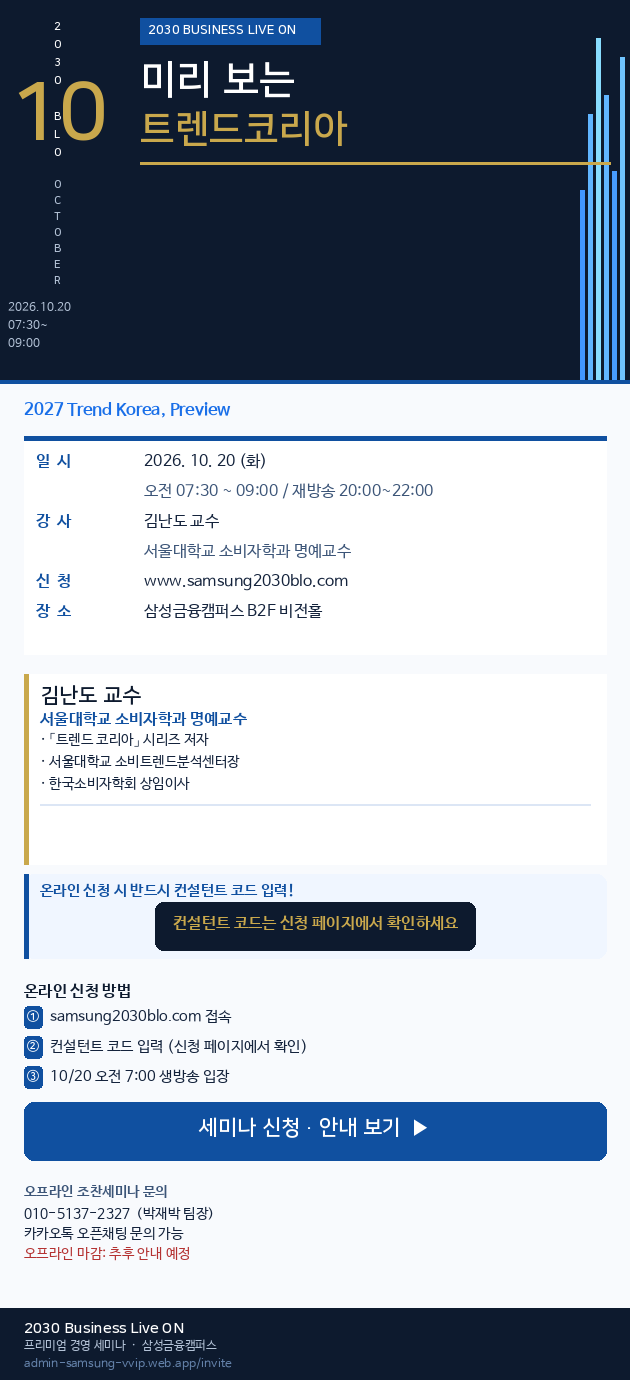
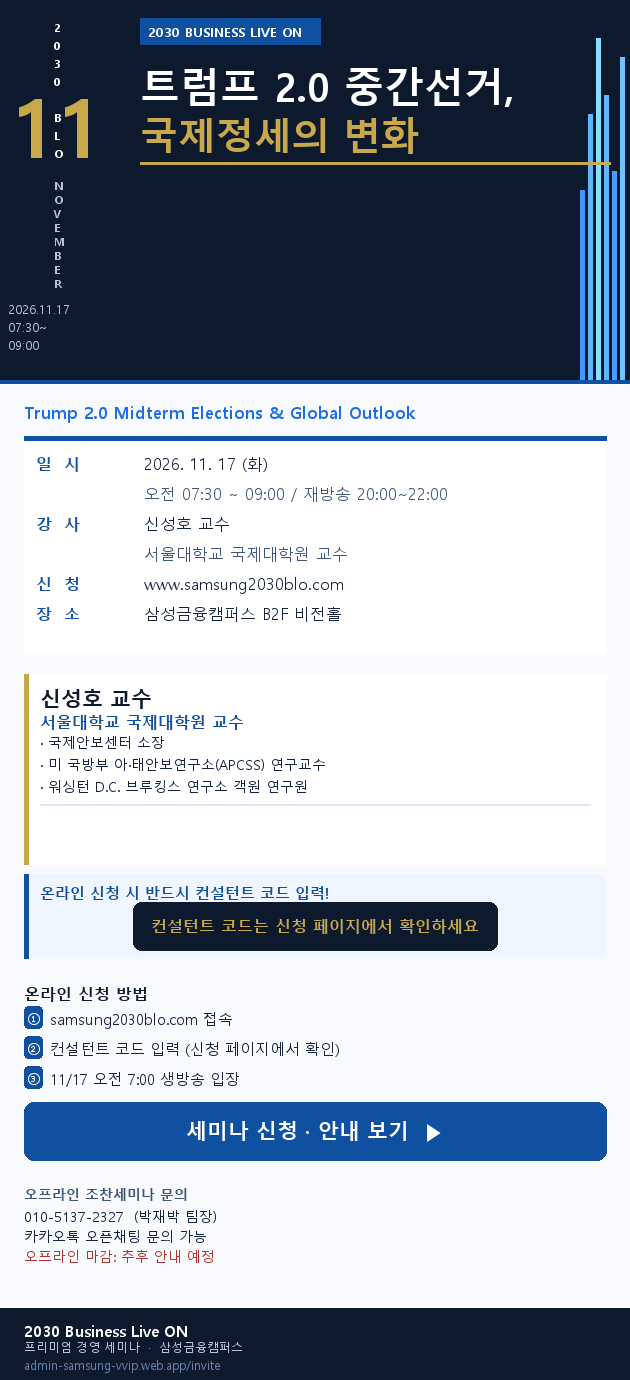
feat: 11월 세미나(트럼프 2.0 중간선거, 신성호 교수) 반영

diff --git a/invite.html b/invite.html
@@ -5,15 +5,15 @@
 <meta name="viewport" content="width=device-width, initial-scale=1.0, maximum-scale=1.0, user-scalable=no">
 <meta property="og:type" content="website">
 <meta property="og:title" content="세미나 신청하기 | BLO 조찬세미나">
-<meta property="og:description" content="미리 보는 트렌드코리아 2027 | 10/20(화) 오전 7:30 | 김난도 교수 | 신청: www.samsung2030blo.com">
-<meta property="og:url" content="https://admin-samsung-vvip.web.app/invite?m=2026-10">
-<meta property="og:image" content="https://admin-samsung-vvip.web.app/assets/og-kakao-wide.png?v=20">
+<meta property="og:description" content="트럼프 2.0 중간선거, 미국의 선택과 국제정세의 변화 | 11/17(화) 오전 7:30 | 신성호 교수 | 신청: www.samsung2030blo.com">
+<meta property="og:url" content="https://admin-samsung-vvip.web.app/invite?m=2026-11">
+<meta property="og:image" content="https://admin-samsung-vvip.web.app/assets/og-kakao-wide.png?v=21">
 <meta property="og:image:width" content="1024">
 <meta property="og:image:height" content="576">
 <meta name="twitter:card" content="summary_large_image">
 <link rel="preconnect" href="https://cdn.jsdelivr.net">
 <link rel="stylesheet" href="https://cdn.jsdelivr.net/gh/orioncactus/pretendard@v1.3.9/dist/web/static/pretendard.min.css">
-<title>미리 보는 트렌드코리아 2027</title>
+<title>트럼프 2.0 중간선거, 미국의 선택과 국제정세의 변화</title>
 <style>
 * { margin:0; padding:0; box-sizing:border-box; -webkit-tap-highlight-color:transparent; }
 html, body {
@@ -521,7 +521,7 @@ html, body {
 
 </style>
 </head>
-<body data-event-date="2026-10-20">
+<body data-event-date="2026-11-17">
 <div class="wrap">
 
 <div class="stale-banner" id="staleBanner">
@@ -535,14 +535,14 @@ html, body {
       <div class="blo-mark-sub">2030 BUSINESS</div>
       <div class="blo-mark-main">LIVE ON</div>
     </div>
-    <div class="hero-tag">10월 세미나</div>
+    <div class="hero-tag">11월 세미나</div>
   </div>
   <div class="hero-main">
-    <div class="hero-month">10</div>
+    <div class="hero-month">11</div>
     <div>
-      <div class="hero-label">OCTOBER 2026 · FUTURE INSIGHT</div>
-      <h1 class="hero-h1">미리 보는<br>트렌드코리아 2027</h1>
-      <div class="hero-sub">2027 Trend Korea, Preview</div>
+      <div class="hero-label">NOVEMBER 2026 · INSIGHT CLASS</div>
+      <h1 class="hero-h1">트럼프 2.0 중간선거,<br>미국의 선택과 국제정세의 변화</h1>
+      <div class="hero-sub">Trump 2.0 Midterm Elections & Global Outlook</div>
     </div>
   </div>
   <div class="hero-divider"></div>
@@ -554,12 +554,12 @@ html, body {
     <div class="speaker-row">
     <div class="part-badge"></div>
     <div class="sp-circle">
-      <div class="sp-circle-name">김난도</div>
+      <div class="sp-circle-name">신성호</div>
       <div class="sp-circle-title">교수</div>
     </div>
     <div class="sp-detail">
-      <div class="sp-name">김난도 <span>교수</span></div>
-      <div class="sp-creds"><span class="sp-cred">서울대학교 소비자학과 명예교수</span><span class="sp-cred">「트렌드 코리아」 시리즈 저자</span><span class="sp-cred">서울대학교 소비트렌드분석센터장</span><span class="sp-cred">한국소비자학회 상임이사</span></div>
+      <div class="sp-name">신성호 <span>교수</span></div>
+      <div class="sp-creds"><span class="sp-cred">서울대학교 국제대학원 교수</span><span class="sp-cred">국제안보센터 소장</span><span class="sp-cred">미 국방부 아·태안보연구소(APCSS) 연구교수</span><span class="sp-cred">워싱턴 D.C. 브루킹스 연구소 객원 연구원</span></div>
     </div>
   </div>
 </div>
@@ -570,7 +570,7 @@ html, body {
     <div class="info-icon">📅</div>
     <div>
       <div class="info-lbl">DATE &amp; TIME</div>
-      <div class="info-val">2026.10.20 (화) 오전 07:30 ~ 09:00</div>
+      <div class="info-val">2026.11.17 (화) 오전 07:30 ~ 09:00</div>
       <div class="info-sub">※ 7:00부터 접속 가능 · 재방송 20:00~22:00</div>
     </div>
   </div>
@@ -602,9 +602,9 @@ html, body {
 
 <!-- ④ 본문 -->
 <div class="body-sec">
-    <p>2027년 정미년(丁未年),<br>붉은 양의 해는 어떤 변화가<br>기다리고 있을까요?</p>
-  <p>10월 Business Live ON은<br>베스트셀러 「트렌드 코리아」 시리즈의 저자<br>서울대학교 김난도 교수와 다시 만납니다.</p>
-  <p>삼성생명과 함께 2027년 트렌드를 미리 보고<br>고객 여러분의 미래를 설계하시기 바랍니다.</p>
+    <p>2026년 11월 3일,<br>트럼프 2기 행정부의 중간선거는<br>국제정세에 어떤 영향을 미칠까요?</p>
+  <p>계속되는 전쟁과 치열한 경쟁 속에서<br>미국 정치 지형의 변화가 가져올<br>새로운 국면을 짚어봅니다.</p>
+  <p>11월 Business Live ON은<br>서울대학교 신성호 교수와 함께<br>미국발(發) 국제정세의 변화를 전망합니다.</p>
 </div>
 
 <!-- ⑤ 신청 섹션 (핵심 개편) -->
@@ -648,7 +648,7 @@ html, body {
 
       <div class="online-card-footer">
         <strong>www.samsung2030blo.com</strong> · 1회 신청으로 2026년 12월까지 전 강연 시청 가능<br>
-        ※ 10/20(화) 07:15부터 접속 → 강연 입장 (재방송 당일 20:00~22:00)
+        ※ 11/17(화) 07:15부터 접속 → 강연 입장 (재방송 당일 20:00~22:00)
       </div>
     </div>
   </div><!-- /onlinePanel -->
@@ -890,21 +890,21 @@ html, body {
   <div class="q-panel active" id="qpanel4">
     <div class="sched-quarter">
       <div class="sched-q-label">4Q · Future Insight, 2027 전망</div>
+      <div class="sched-item completed">
+        <div class="sched-dot"></div>
+        <div>
+          <div class="sched-date">10/20 (화)</div>
+          <div class="sched-title-text">10월 강연</div>
+          <span class="sched-status done">✓ 완료</span>
+        </div>
+      </div>
       <div class="sched-item current">
         <div class="sched-dot"></div>
         <div>
-          <div class="sched-date">10/20 (화) 오전 7:30</div>
+          <div class="sched-date">11/17 (화) 오전 7:30</div>
           <span class="sched-status now">▶ 신청중</span>
-          <div class="sched-title-text">미리 보는 트렌드코리아 2027</div>
-          <div class="sched-speaker">김난도 교수</div>
-        </div>
-      </div>
-      <div class="sched-item upcoming">
-        <div class="sched-dot"></div>
-        <div>
-          <div class="sched-date">11/17 (화)</div>
-          <div class="sched-title-text">11월 강연 (추후 공지)</div>
-          <span class="sched-status soon">예정</span>
+          <div class="sched-title-text">트럼프 2.0 중간선거, 미국의 선택과 국제정세의 변화</div>
+          <div class="sched-speaker">신성호 교수</div>
         </div>
       </div>
       <div class="sched-item upcoming">
@@ -970,7 +970,7 @@ html, body {
 <!-- 하단 고정 신청 버튼 -->
 <div class="sticky-cta">
   <div class="sticky-meta">
-    <span class="sticky-event-label">📅 10/20(화) · 삼성생명 BLO 조찬세미나</span>
+    <span class="sticky-event-label">📅 11/17(화) · 삼성생명 BLO 조찬세미나</span>
     <div class="sticky-code-wrap">
       <span class="sticky-code-label">컨설턴트 코드</span>
       <span class="sticky-code-value">●●●●●●●</span>
@@ -1105,7 +1105,7 @@ function scrollToApply(e) {
 
 /* ── 초대장 공유 ── */
 function shareInvite(mode) {
-  var url = 'https://admin-samsung-vvip.web.app/invite?m=2026-10';
+  var url = 'https://admin-samsung-vvip.web.app/invite?m=2026-11';
   getReferralCode().then(function(code) {
     var intro = mode === 'refer'
       ? '🎁 제가 추천하는 세미나예요! 같이 들어보세요\n'
@@ -1113,9 +1113,9 @@ function shareInvite(mode) {
     var msg =
       intro +
       '━━━━━━━━━━━━━━━━\n' +
-      '미리 보는 트렌드코리아 2027\n' +
-      '📅 10/20(화) 오전 7:30\n' +
-      '🎤 김난도 교수\n' +
+      '트럼프 2.0 중간선거, 국제정세의 변화\n' +
+      '📅 11/17(화) 오전 7:30\n' +
+      '🎤 신성호 교수\n' +
       '━━━━━━━━━━━━━━━━\n' +
       '🍽 [오프라인 조찬세미나] 담당자 통해서만 신청\n' +
       '  카카오 오픈채팅: https://open.kakao.com/o/sleUSUei\n' +

diff --git a/index.html b/index.html
@@ -5,7 +5,7 @@
   <meta name="viewport" content="width=device-width, initial-scale=1.0">
   <meta property="og:title" content="2030 Business Live ON - 세미나 안내">
   <meta property="og:description" content="삼성생명 WM 사업부 | 프리미엄 경영 조찬 세미나">
-  <meta property="og:image" content="https://admin-samsung-vvip.web.app/assets/og-kakao-wide.png?v=20">
+  <meta property="og:image" content="https://admin-samsung-vvip.web.app/assets/og-kakao-wide.png?v=21">
   <meta property="og:image:width" content="1200">
   <meta property="og:image:height" content="630">
   <meta property="og:url" content="https://admin-samsung-vvip.web.app/">
